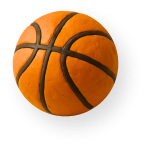
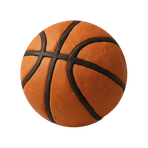
API: takes carry topics, and a take can be requested about a topic; re-cut basketball
Claude-Session: https://claude.ai/code/session_01G6ijpr2Xsj8VaLdNGr9HMP

diff --git a/api/generate.js b/api/generate.js
@@ -6,6 +6,7 @@ export const config = { maxDuration: 60 };
 // ==================== SETTINGS ====================
 const MODEL = 'claude-sonnet-5';
 const POOL_MAX = 4;                  // takes kept per sport + city
+const TOPIC_POOL_MAX = 2;            // takes kept per topic within a sport + city
 const POOL_TTL = 3 * 60 * 60;        // seconds a pool of takes stays fresh
 const IP_HOURLY_LIMIT = 12;          // new (paid) takes one person can trigger per hour
 const DAILY_LIMIT = Number(process.env.DAILY_TAKE_LIMIT) || 150; // new (paid) takes per day, everyone combined
@@ -51,15 +52,15 @@ async function readPool(cache, key) {
   return entry.takes;
 }
 
-async function addToPool(cache, key, quote) {
+async function addToPool(cache, key, take, max) {
   const entry = await cache.get(key);
   const fresh = entry && Date.now() - entry.created <= POOL_TTL * 1000;
   const created = fresh ? entry.created : Date.now();
   const takes = fresh ? entry.takes : [];
-  if (takes.length >= POOL_MAX || takes.includes(quote)) return;
+  if (takes.length >= max || takes.some(entry => entry.quote === take.quote)) return;
 
   const ttl = Math.max(60, POOL_TTL - Math.floor((Date.now() - created) / 1000));
-  await cache.set(key, { created, takes: [...takes, quote] }, { ttl, name: 'take-pool' });
+  await cache.set(key, { created, takes: [...takes, take] }, { ttl, name: 'take-pool' });
 }
 
 // The model replies as <evidence>...</evidence><take>...</take>. Only the take is shown;
@@ -102,7 +103,7 @@ export function parseReply(content) {
 
   const words = quote.split(' ').length;
   if (!quote || /NO_TAKE/.test(quote) || words < 5 || words > 45) return null;
-  return { quote: `"${quote}"`, evidence };
+  return { quote: `"${quote}"`, evidence, topics: parseTopics(text, quote) };
 }
 
 // A second, separate model reads the take against the copied evidence and nothing else.
@@ -143,13 +144,34 @@ async function reviseTake(client, quote, evidence, verdict) {
     system: `You fix one line of sports bar talk. A fact-checker compared the TAKE with its SOURCES and flagged a problem. Rewrite the take so that every person, number, result and date in it is directly backed by the sources: correct the flagged part if the sources give the right fact, otherwise cut it. Keep the same voice and keep a simple fan opinion at the end. One or two short sentences, 25 words at most, everyday words, no dashes or semicolons, days by name. Reply with only <take>the rewritten take</take>.`,
     messages: [{ role: 'user', content: `SOURCES:\n${evidence}\n\nTAKE:\n${quote}\n\nCHECKER: ${verdict}` }]
   });
-  const fixed = parseReply([{ type: 'text', text: `<evidence>${evidence}</evidence>` }, ...response.content]);
-  return fixed;
+  return parseReply([{ type: 'text', text: `<evidence>${evidence}</evidence>` }, ...response.content]);
+}
+
+// Topics are the words the app highlights and the chips it offers under the take. Each line is
+// "exact words from the take | chip label | kind". Anything not literally in the take is dropped.
+const TOPIC_KINDS = ['team', 'player', 'event'];
+
+function parseTopics(text, quote) {
+  const block = text.match(/<topics>([\s\S]*?)(?:<\/topics|$)/i)?.[1] || '';
+  const topics = [];
+  for (const line of block.split('\n')) {
+    let [words, label, kind] = line.replace(/^\s*[-*]\s*/, '').split('|').map(part => (part || '').trim());
+    if (!words || !label || label.length > 28) continue;
+    // Highlight just the name. If it sent a phrase, fall back to the part of the label the take actually says.
+    if (words.split(' ').length > 3 || !quote.includes(words)) {
+      words = label.split(' ').reverse().find(part => part.length > 2 && new RegExp(`\\b${part}\\b`).test(quote)) || '';
+    }
+    if (!words) continue;
+    if (topics.some(t => t.text === words || t.label.toLowerCase() === label.toLowerCase())) continue;
+    topics.push({ text: words, label, kind: TOPIC_KINDS.includes(kind) ? kind : 'team' });
+    if (topics.length === 3) break;
+  }
+  return topics;
 }
 
 const TEAM_SPORTS = ['football', 'baseball', 'basketball', 'soccer'];
 
-export async function generateTake(client, sport, location, usedTakes) {
+export async function generateTake(client, sport, location, usedTakes, topic = '') {
   const league = LEAGUES[sport];
   const today = new Date().toLocaleDateString('en-US', {
     weekday: 'long', year: 'numeric', month: 'long', day: 'numeric',
@@ -165,11 +187,14 @@ export async function generateTake(client, sport, location, usedTakes) {
 
   const isTeamSport = TEAM_SPORTS.includes(sport);
   const place = /^\d{5}$/.test(location) ? `US zip code ${location} (work out which city that is first)` : location;
-  const pickStory = isTeamSport
+  const aboutTopic = `The person asked for a take about ${topic}. The whole take is about ${topic}: the newest thing that has happened with them, seen the way a fan in ${location} would see it.`;
+  const pickStory = topic ? aboutTopic : isTeamSport
     ? `Pick the one ${league} team most people in ${location} root for. If the area has two, pick one. If it has none, pick the nearest team locals follow. The whole take is about that one team.`
     : `There is no home team in ${sport}, so use the biggest story on tour this week. Only make it local if a tour event is being played in or near ${location} within the next two weeks.`;
 
-  const searchHow = isTeamSport
+  const searchHow = topic
+    ? `Look for the newest thing about ${topic}. If it is a team, search for its most recent game by date, like "${topic} score September 18 2026". If it is a player, search "${topic} ${league} latest game". If it is an event, search "${topic} results". Every search result shows how old its page is. Prefer pages from the last three days, and in a quiet stretch use the most recent real news there is and say when it happened.`
+    : isTeamSport
     ? `Look for the most recent game or result itself, with a query like "New York Mets MLB score September 18 2026" or "New York Mets game recap", rather than general team news. Use the full team name and the league so you don't get a different team with the same nickname. Every search result shows how old its page is. When the season is on, rest the take only on pages from the last three days. In the offseason, use the newest real news you can find, or failing that the biggest move of this offseason.`
     : `Look for this week's tournament with a query like "${sport} tournament this week leaderboard" or "${sport} news this week". Every search result shows how old its page is. Prefer pages from the last three days. If it is a quiet week, use the result of the most recent big tournament or the next big event coming up, and say when it was or will be.`;
 
@@ -192,15 +217,20 @@ export async function generateTake(client, sport, location, usedTakes) {
 - Just say the take. Do not greet anyone, address the fans, or explain that there is no local team or event.
 - Keep it about the games: no politics, legal trouble or betting.
 
+5. Pick the topics. List one to three things in the take that this person might want another take about next: the team, a player, an event. Give just the name exactly as the take says it (one to three words, like "Yankees" or "Judge", never a whole phrase), then the full proper name for a button, then the kind.
+
 Reply in exactly this format and nothing else:
 <evidence>
 - (page age) "sentence copied from the source"
 </evidence>
 <take>the take, without quote marks</take>
+<topics>
+- exact words from the take | Full Name | team, player or event
+</topics>
 
 If the search turns up nothing solid enough, reply with <take>NO_TAKE</take>.`;
 
-  let userMessage = `Give me a fresh ${sport} take for ${location}.`;
+  let userMessage = topic ? `Give me a fresh take about ${topic}.` : `Give me a fresh ${sport} take for ${location}.`;
   if (usedTakes.length) {
     userMessage += `\n\nI've already used the takes below, so build this one on a different fact or storyline about the same team. It should stand on its own - don't refer back to them:\n${usedTakes.map(t => `- ${t}`).join('\n')}`;
   }
@@ -234,6 +264,8 @@ If the search turns up nothing solid enough, reply with <take>NO_TAKE</take>.`;
 
   const fixed = await reviseTake(client, take.quote, take.evidence, first.verdict);
   if (!fixed) return null;
+  // The rewrite may have cut a name, so keep only the topics that survived it
+  fixed.topics = take.topics.filter(topic => fixed.quote.includes(topic.text));
   const second = await verifyTake(client, fixed.quote, fixed.evidence, calendar);
   return second.pass ? fixed : null;
 }
@@ -262,6 +294,7 @@ export default async function handler(req, res) {
   const sport = String(req.body?.sport || '').toLowerCase();
   const location = cleanLocation(req.body?.location || '');
   const n = Math.max(0, Math.min(1000, parseInt(req.body?.n, 10) || 0));
+  const topic = cleanLocation(req.body?.topic || '').slice(0, 40);
 
   if (!LEAGUES[sport] || location.length < 2) {
     return res.status(400).json({ error: 'Missing sport or location' });
@@ -273,17 +306,15 @@ export default async function handler(req, res) {
   }
 
   const cache = getCache({ namespace: 'sportsguy' });
-  const poolKey = `takes:v12:${sport}:${location.toLowerCase()}`;
+  const poolMax = topic ? TOPIC_POOL_MAX : POOL_MAX;
+  const poolKey = `takes:v13:${sport}:${location.toLowerCase()}${topic ? `:topic:${topic.toLowerCase()}` : ''}`;
   const pool = await readPool(cache, poolKey);
+  const send = (take, cached, more) => res.status(200).json({ quote: take.quote, topics: take.topics || [], cached, more });
 
-  // Already have this take (or the pool is full) - free, no API call
-  // `more` tells the app whether another tap can turn up something new
-  if (n < pool.length) {
-    return res.status(200).json({ quote: pool[n], cached: true, more: n + 1 < POOL_MAX });
-  }
-  if (pool.length >= POOL_MAX) {
-    return res.status(200).json({ quote: pool[n % pool.length], cached: true, more: false });
-  }
+  // Already have this take (or the pool is full) - free, no API call.
+  // `more` tells the app whether asking again can turn up something new.
+  if (n < pool.length) return send(pool[n], true, n + 1 < poolMax);
+  if (pool.length >= poolMax) return send(pool[n % pool.length], true, false);
 
   // A new take costs money - check the limits first
   const day = new Date().toISOString().slice(0, 10);
@@ -295,9 +326,7 @@ export default async function handler(req, res) {
   const [dayCount, ipCount] = await Promise.all([readCount(cache, dayKey), readCount(cache, ipKey)]);
   if (dayCount >= DAILY_LIMIT || ipCount >= IP_HOURLY_LIMIT) {
     console.warn('Limit hit', { dayCount, ipCount, ip });
-    if (pool.length) {
-      return res.status(200).json({ quote: pool[n % pool.length], cached: true, more: false });
-    }
+    if (pool.length) return send(pool[n % pool.length], true, false);
     return res.status(429).json({ error: 'Too many takes right now. Try again in a bit.' });
   }
 
@@ -306,22 +335,24 @@ export default async function handler(req, res) {
 
     const client = new Anthropic({ apiKey: process.env.CLAUDE_API_KEY, maxRetries: 1, timeout: 50_000 });
     // A take that fails the checks is thrown away, so give it one more go before giving up
-    let take = await generateTake(client, sport, location, pool);
+    // A topic take should not repeat what this city's main takes already said
+    const cityTakes = topic ? await readPool(cache, `takes:v13:${sport}:${location.toLowerCase()}`) : [];
+    const used = [...pool, ...cityTakes].map(entry => entry.quote);
+    let take = await generateTake(client, sport, location, used, topic);
     if (!take) {
       await bumpCount(cache, dayKey, 26 * 60 * 60);
-      take = await generateTake(client, sport, location, pool);
+      take = await generateTake(client, sport, location, used, topic);
     }
 
     if (!take) {
       return res.status(502).json({ error: 'No take came back' });
     }
-    const { quote, evidence } = take;
-    console.log('New take', { sport, location, quote, evidence });
+    console.log('New take', { sport, location, topic, quote: take.quote, topics: take.topics, evidence: take.evidence });
 
     // Re-read so two people generating at once don't overwrite each other
-    await addToPool(cache, poolKey, quote);
+    await addToPool(cache, poolKey, { quote: take.quote, topics: take.topics }, poolMax);
 
-    return res.status(200).json({ quote, cached: false, more: n + 1 < POOL_MAX });
+    return send(take, false, n + 1 < poolMax);
 
   } catch (error) {
     if (error instanceof Anthropic.RateLimitError) {
